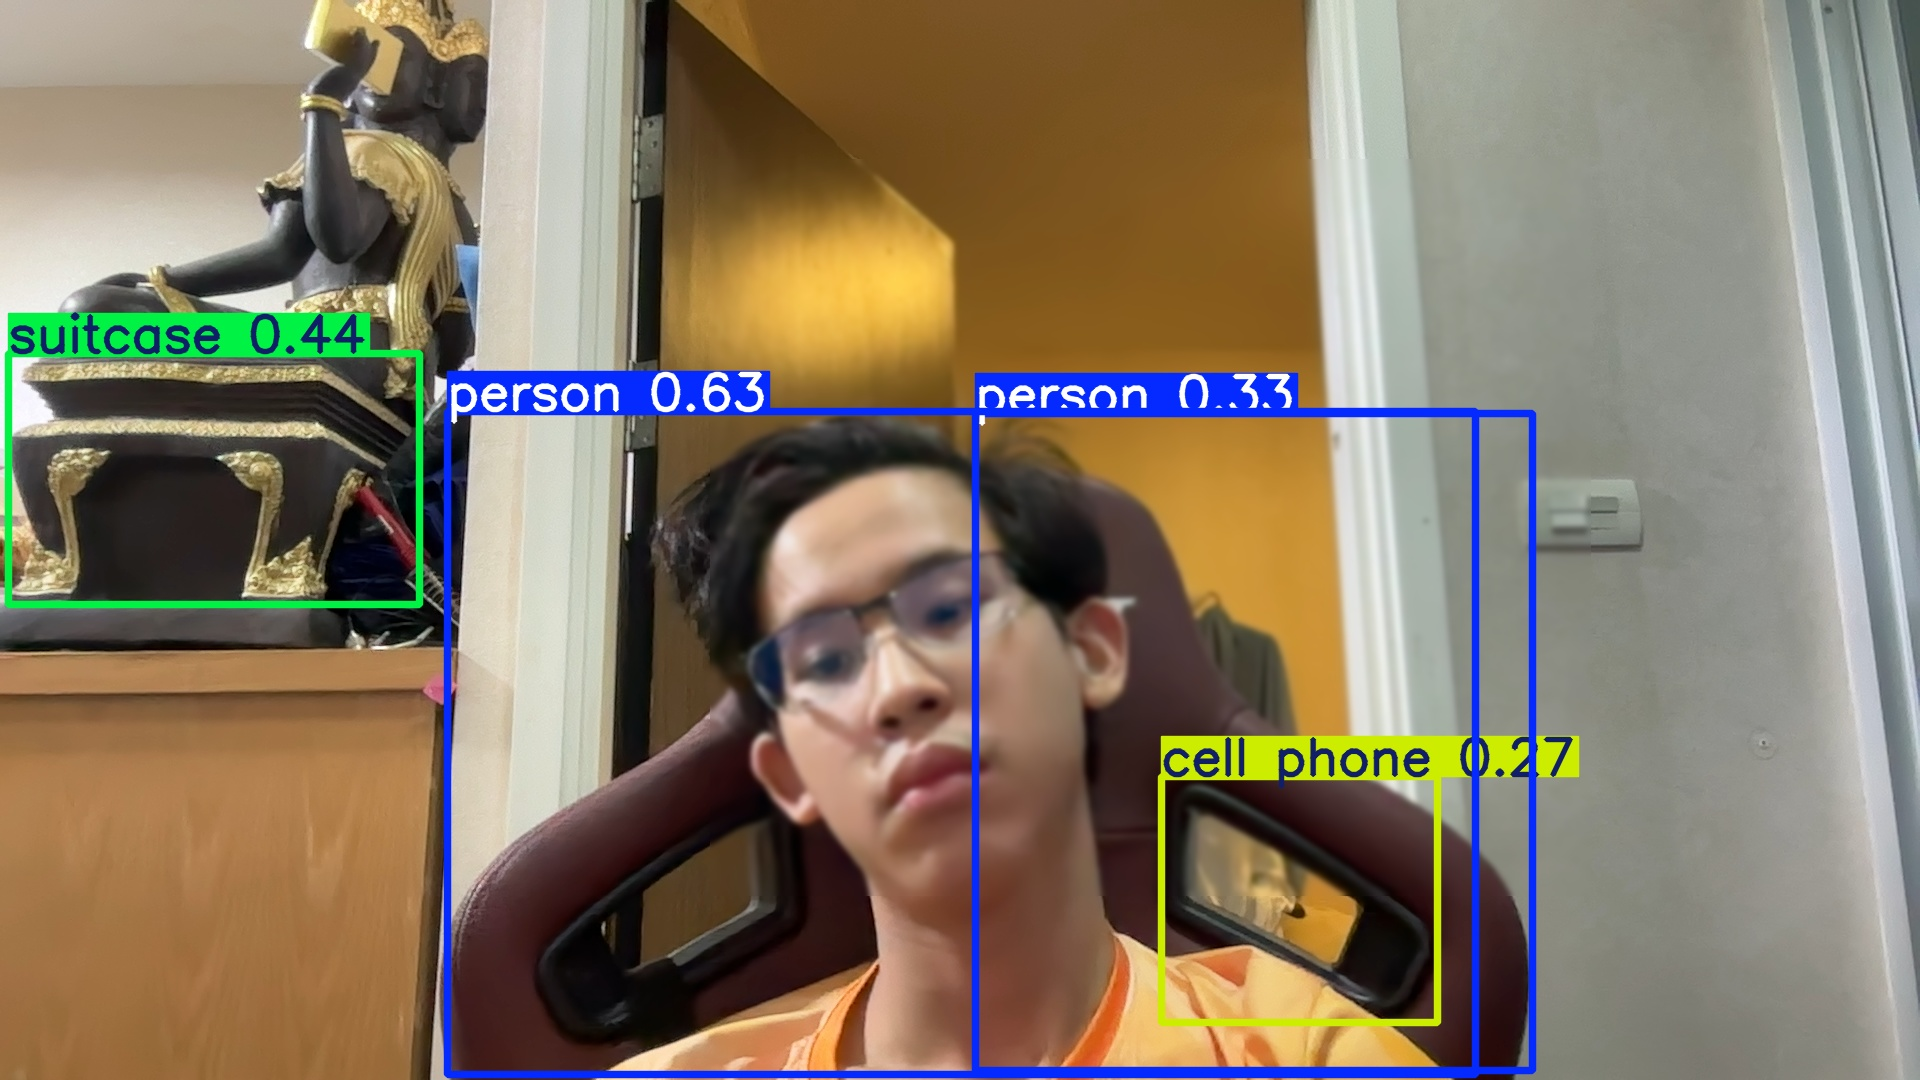
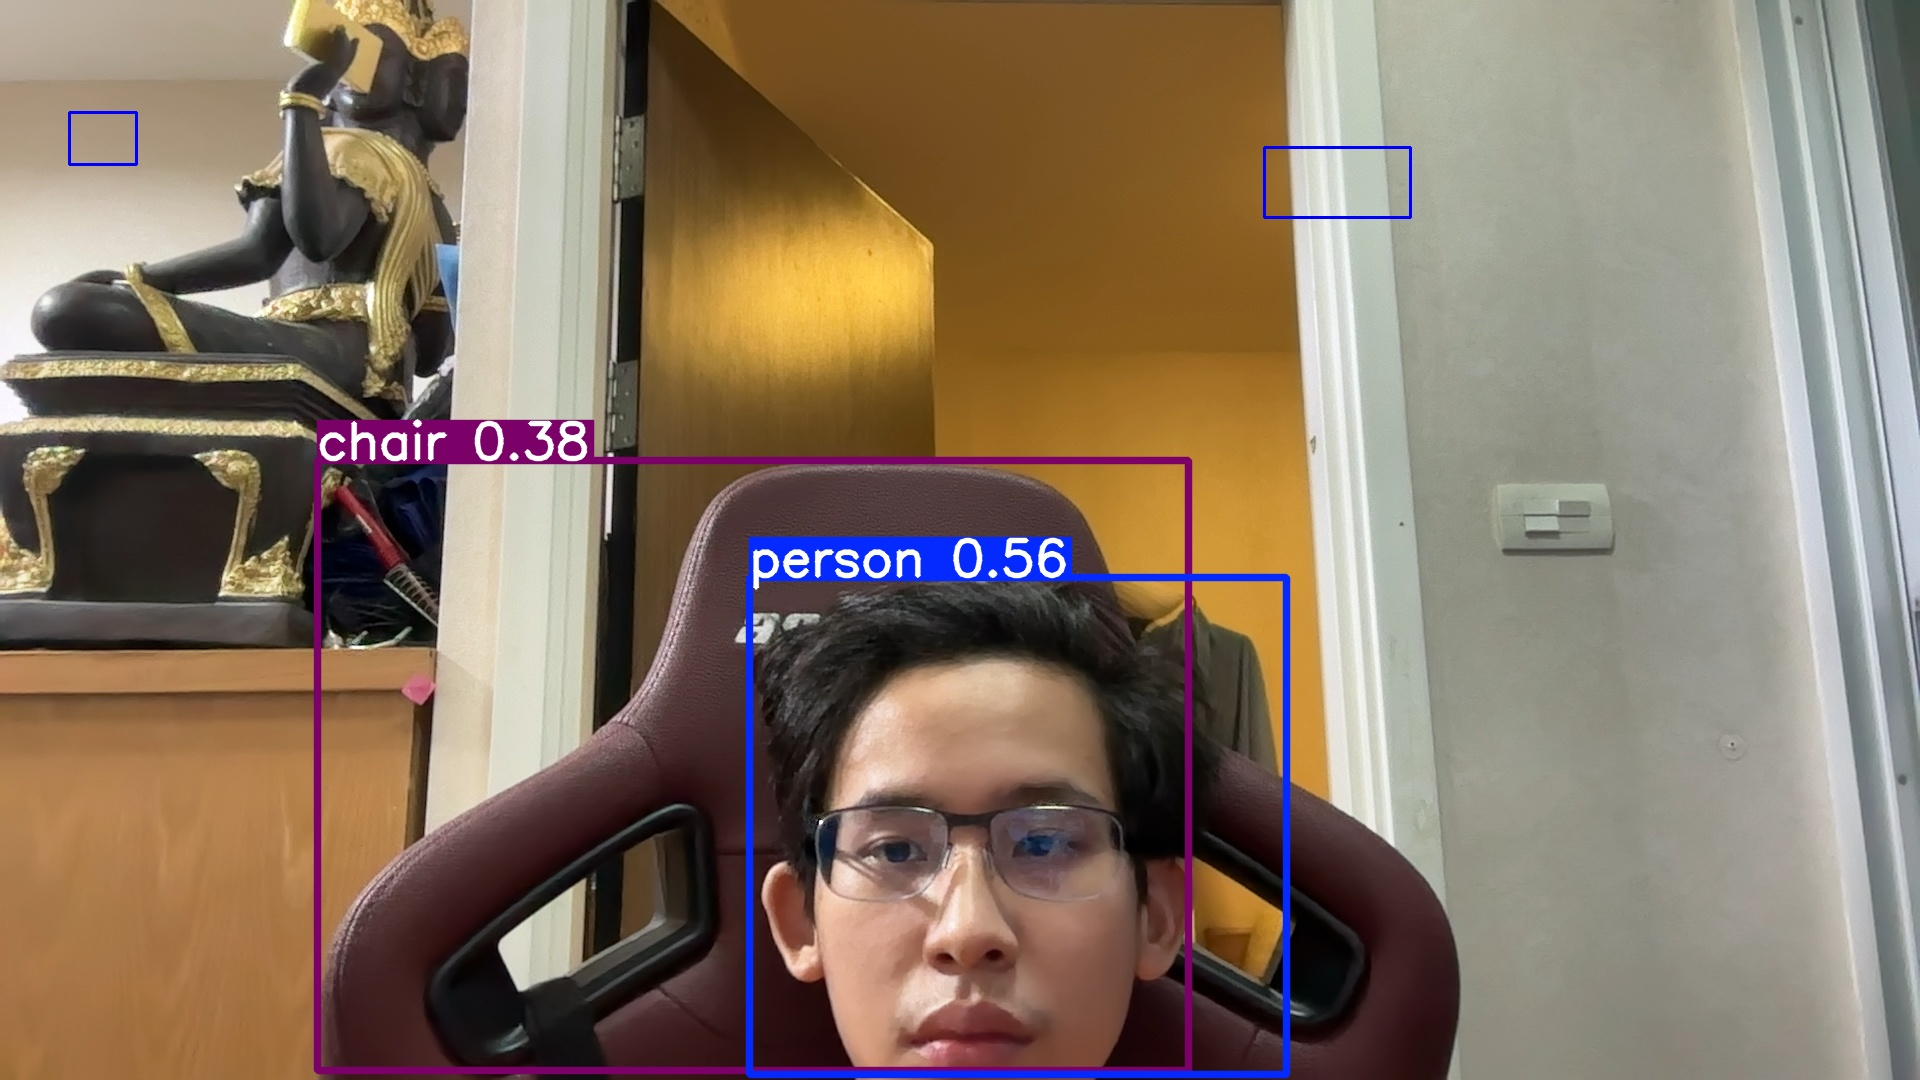
able to select ROI

diff --git a/camscript.py b/camscript.py
@@ -1,7 +1,6 @@
 import cv2
 import time
 import os
-import subprocess
 from yolo_detection import detect_and_display
 
 more2 = 1
@@ -31,6 +30,24 @@ def save_image(frame, image_counter):
     cv2.imwrite(filename, frame)
     print(f"Image saved: {filename}")
 
+# Function to select ROIs manually
+def select_rois(frame):
+    rois = cv2.selectROIs("Select ROIs", frame, fromCenter=False, showCrosshair=True)
+    cv2.destroyWindow("Select ROIs")
+    return rois
+
+# Capture a frame to select ROIs
+ret, frame = cap.read()
+if not ret:
+    print("Error: Failed to capture image.")
+    cap.release()
+    cv2.destroyAllWindows()
+    exit()
+
+# Select ROIs manually once
+rois = select_rois(frame)
+print(f"Selected ROIs: {rois}")
+
 # Loop to capture images
 try:
     while True:
@@ -41,16 +58,21 @@ try:
             print("Error: Failed to capture image.")
             break
 
-
-
-        # Perform YOLO detection and display results
-        annotated_frame = detect_and_display(frame,image_counter)
+        # Perform YOLO detection and display results for each ROI
+        for roi in rois:
+            x, y, w, h = roi
+            if w > 0 and h > 0:  # Ensure the ROI is valid
+                roi_frame = frame[y:y+h, x:x+w]
+                annotated_frame = detect_and_display(roi_frame, image_counter)
+                frame[y:y+h, x:x+w] = annotated_frame  # Place the annotated ROI back into the frame
+            else:
+                print(f"Invalid ROI: {roi}")
 
         # Show the annotated frame in the same window
-        cv2.imshow("YOLO Detection", annotated_frame)
+        cv2.imshow("YOLO Detection", frame)
 
         # Save the annotated image
-        save_image(annotated_frame, image_counter)
+        save_image(frame, image_counter)
 
         # Update the counter and reset it to 1 after 6
         image_counter = (image_counter % 6) + 1
